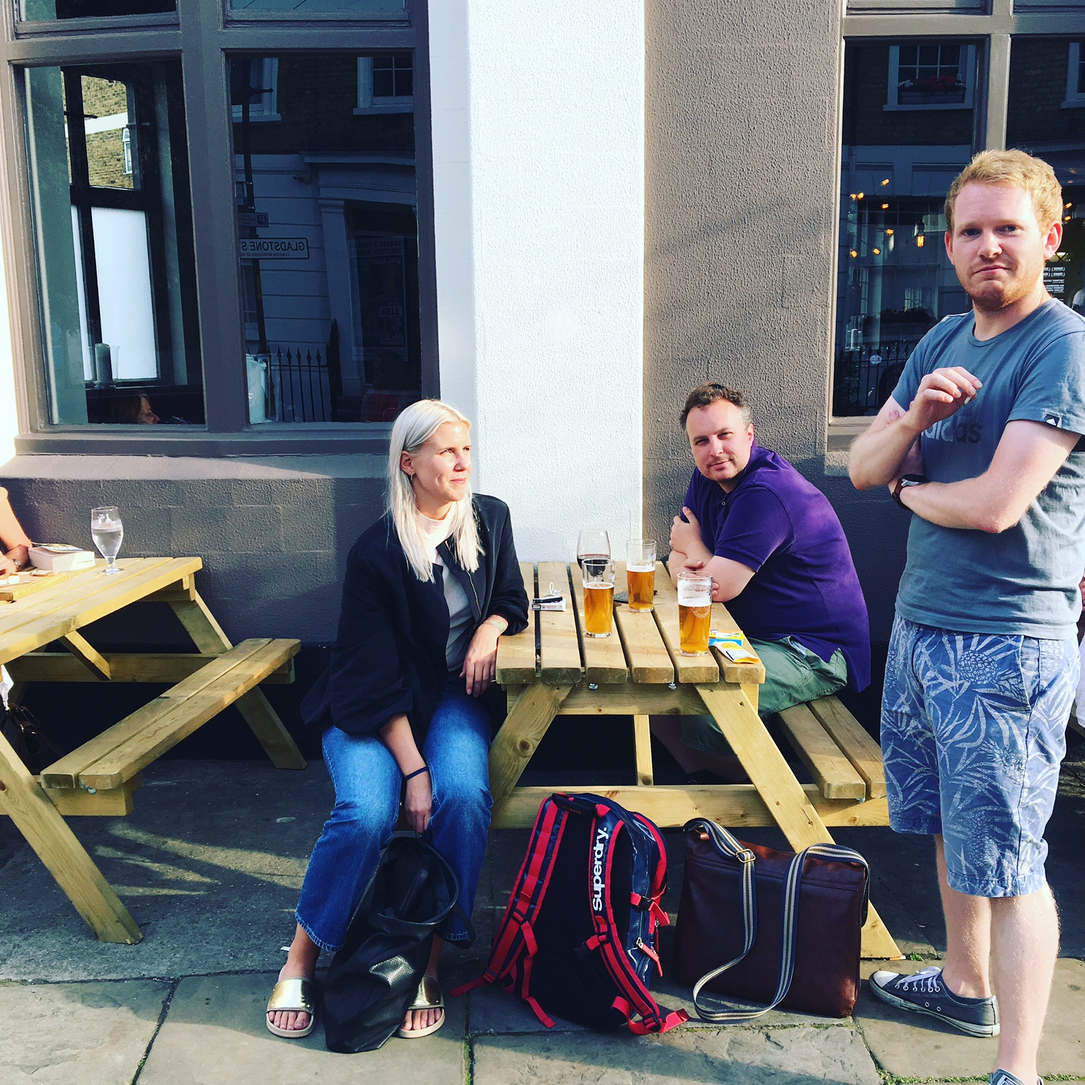
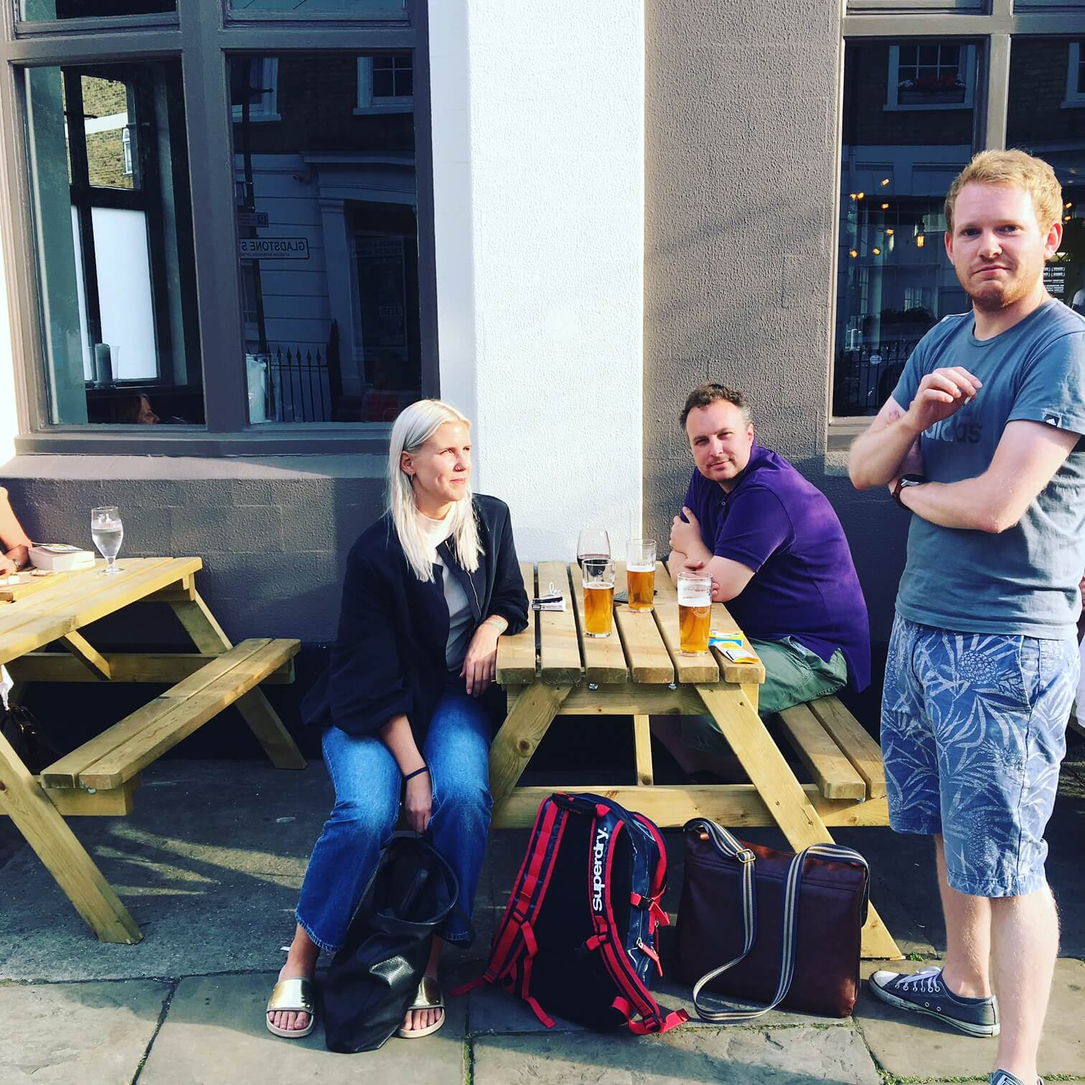
Optimise the about images

diff --git a/app/about/index.html b/app/about/index.html
@@ -24,7 +24,7 @@ headBackground: blueBg
 </section>
 <section class="journey-gallery">
   <div class="images-carousel">
-    <div><img src="/img/backgrounds/macbookwankers.jpg"></div>
+    <div><img src="/img/gallery/gallery5.jpg"></div>
     <div><img src="/img/gallery/gallery3.jpg"></div>
     <div><img src="/img/gallery/gallery1.jpg"></div>
     <div><img src="/img/gallery/gallery2.jpg"></div>
